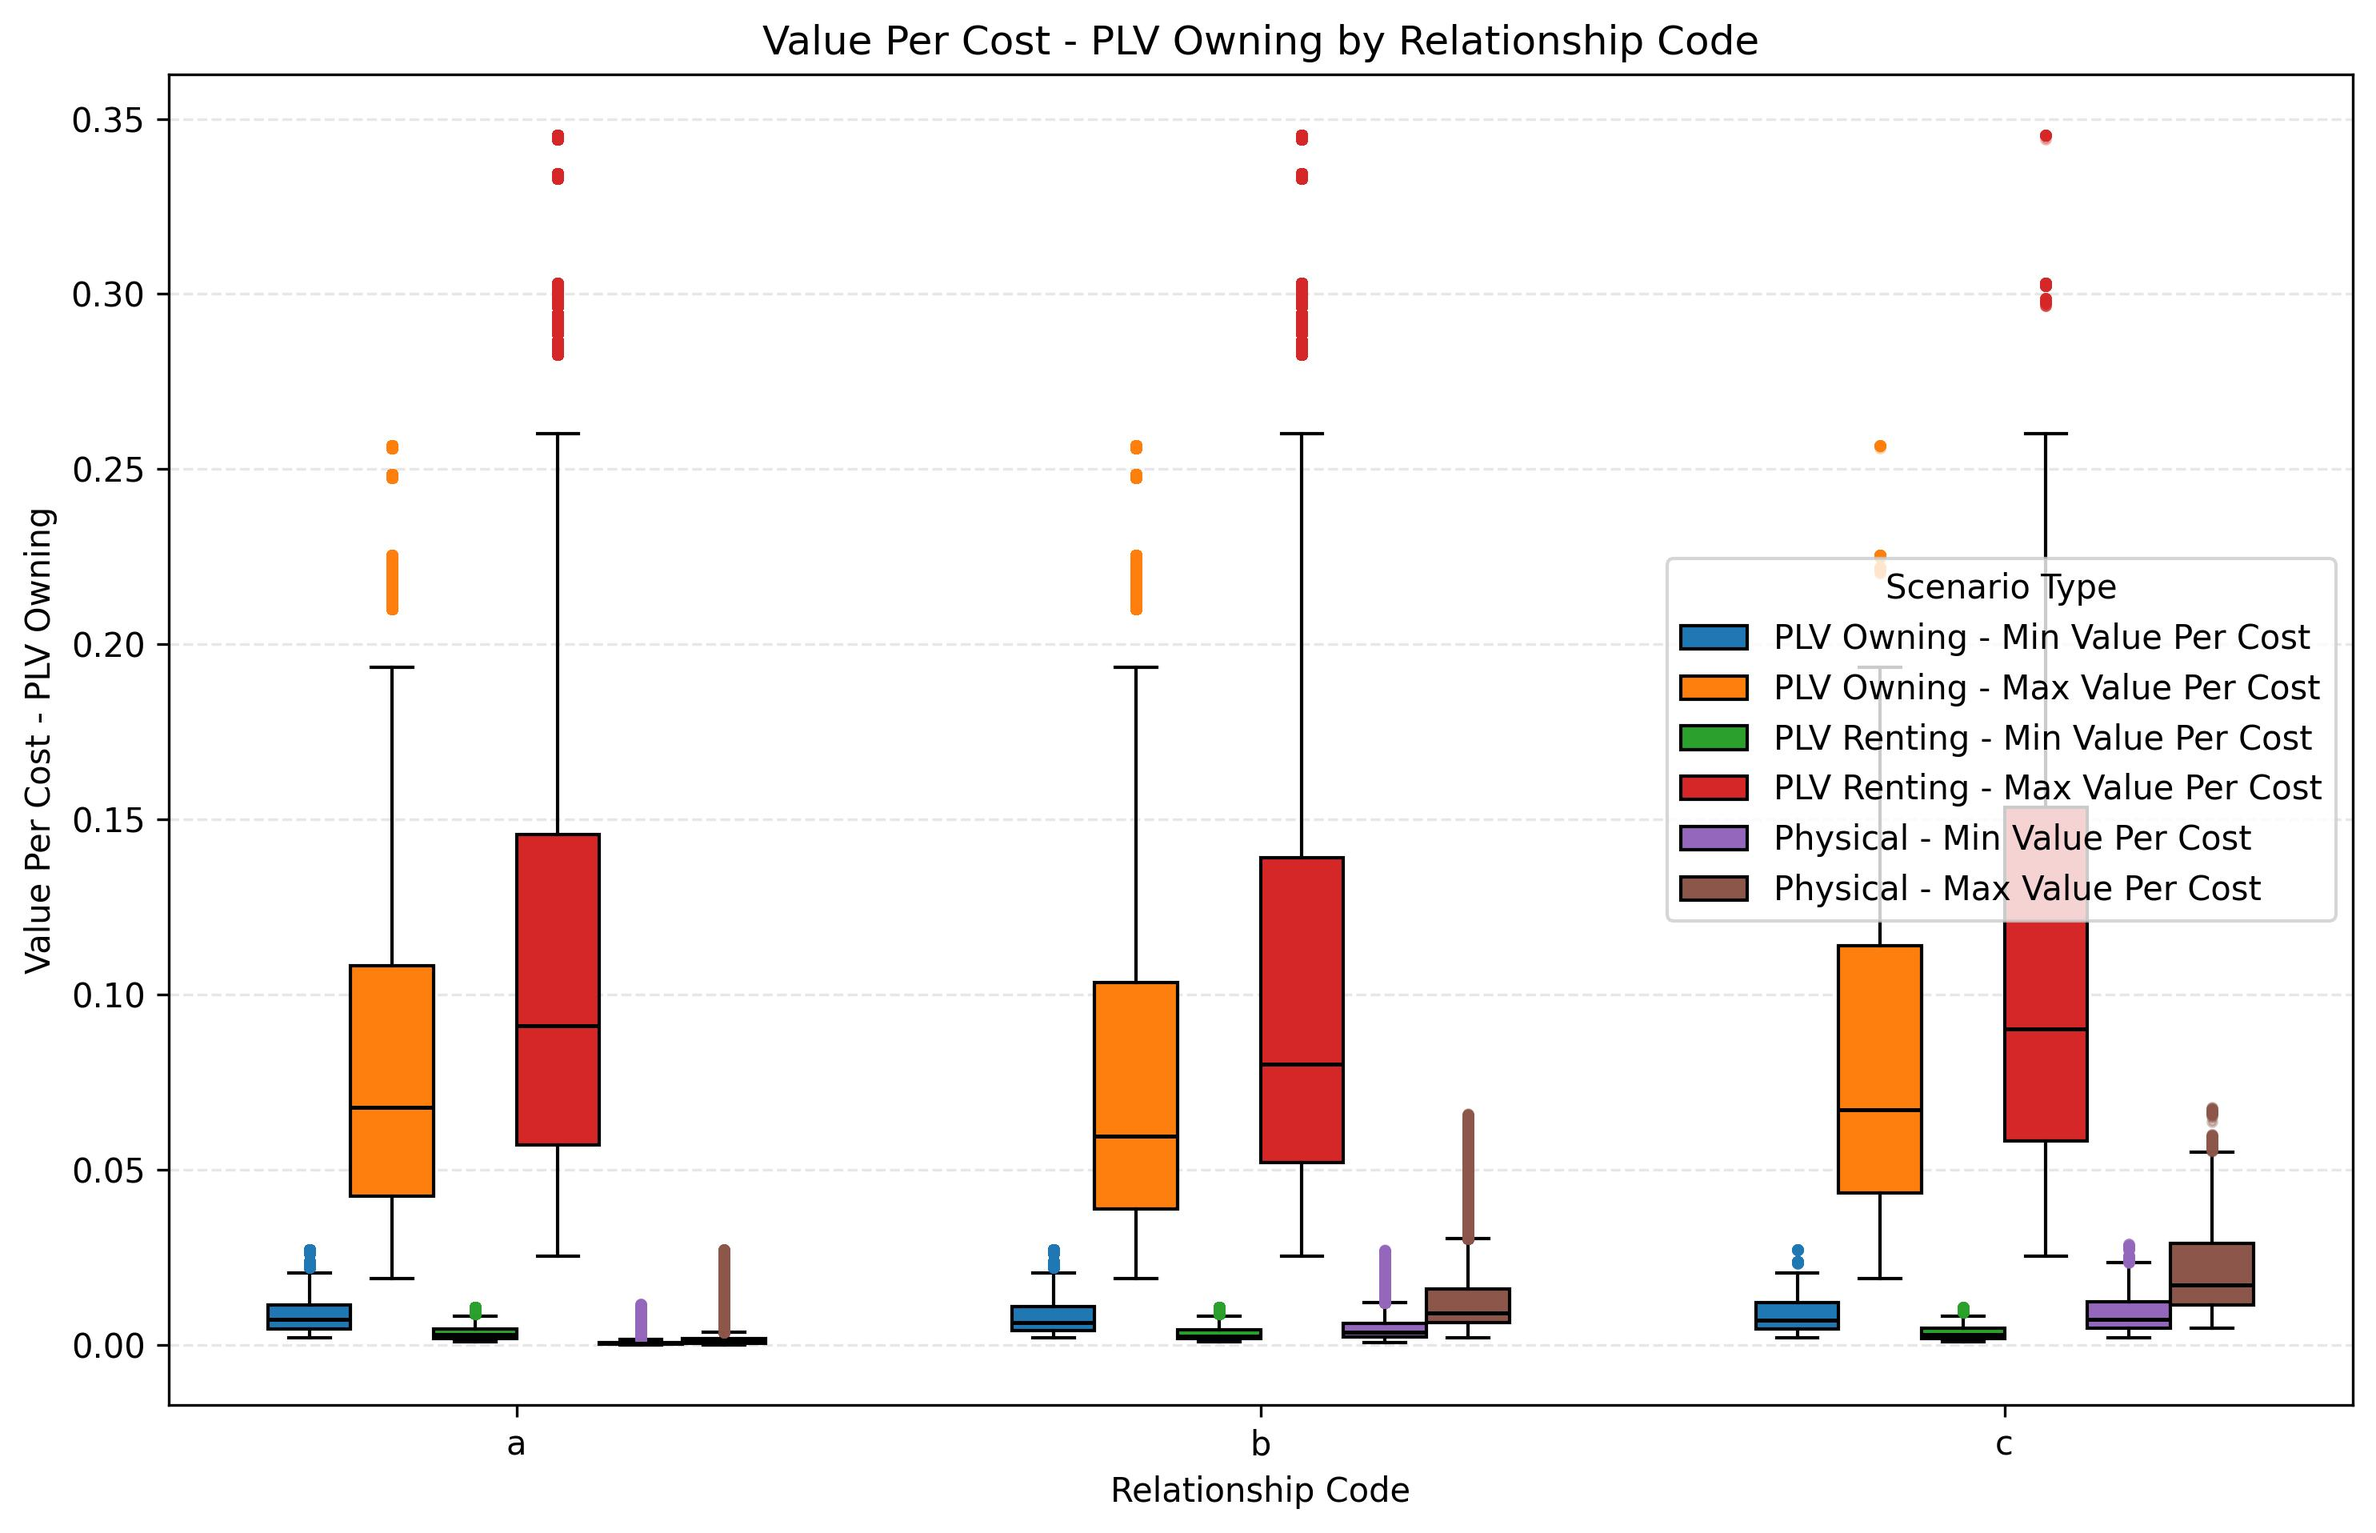
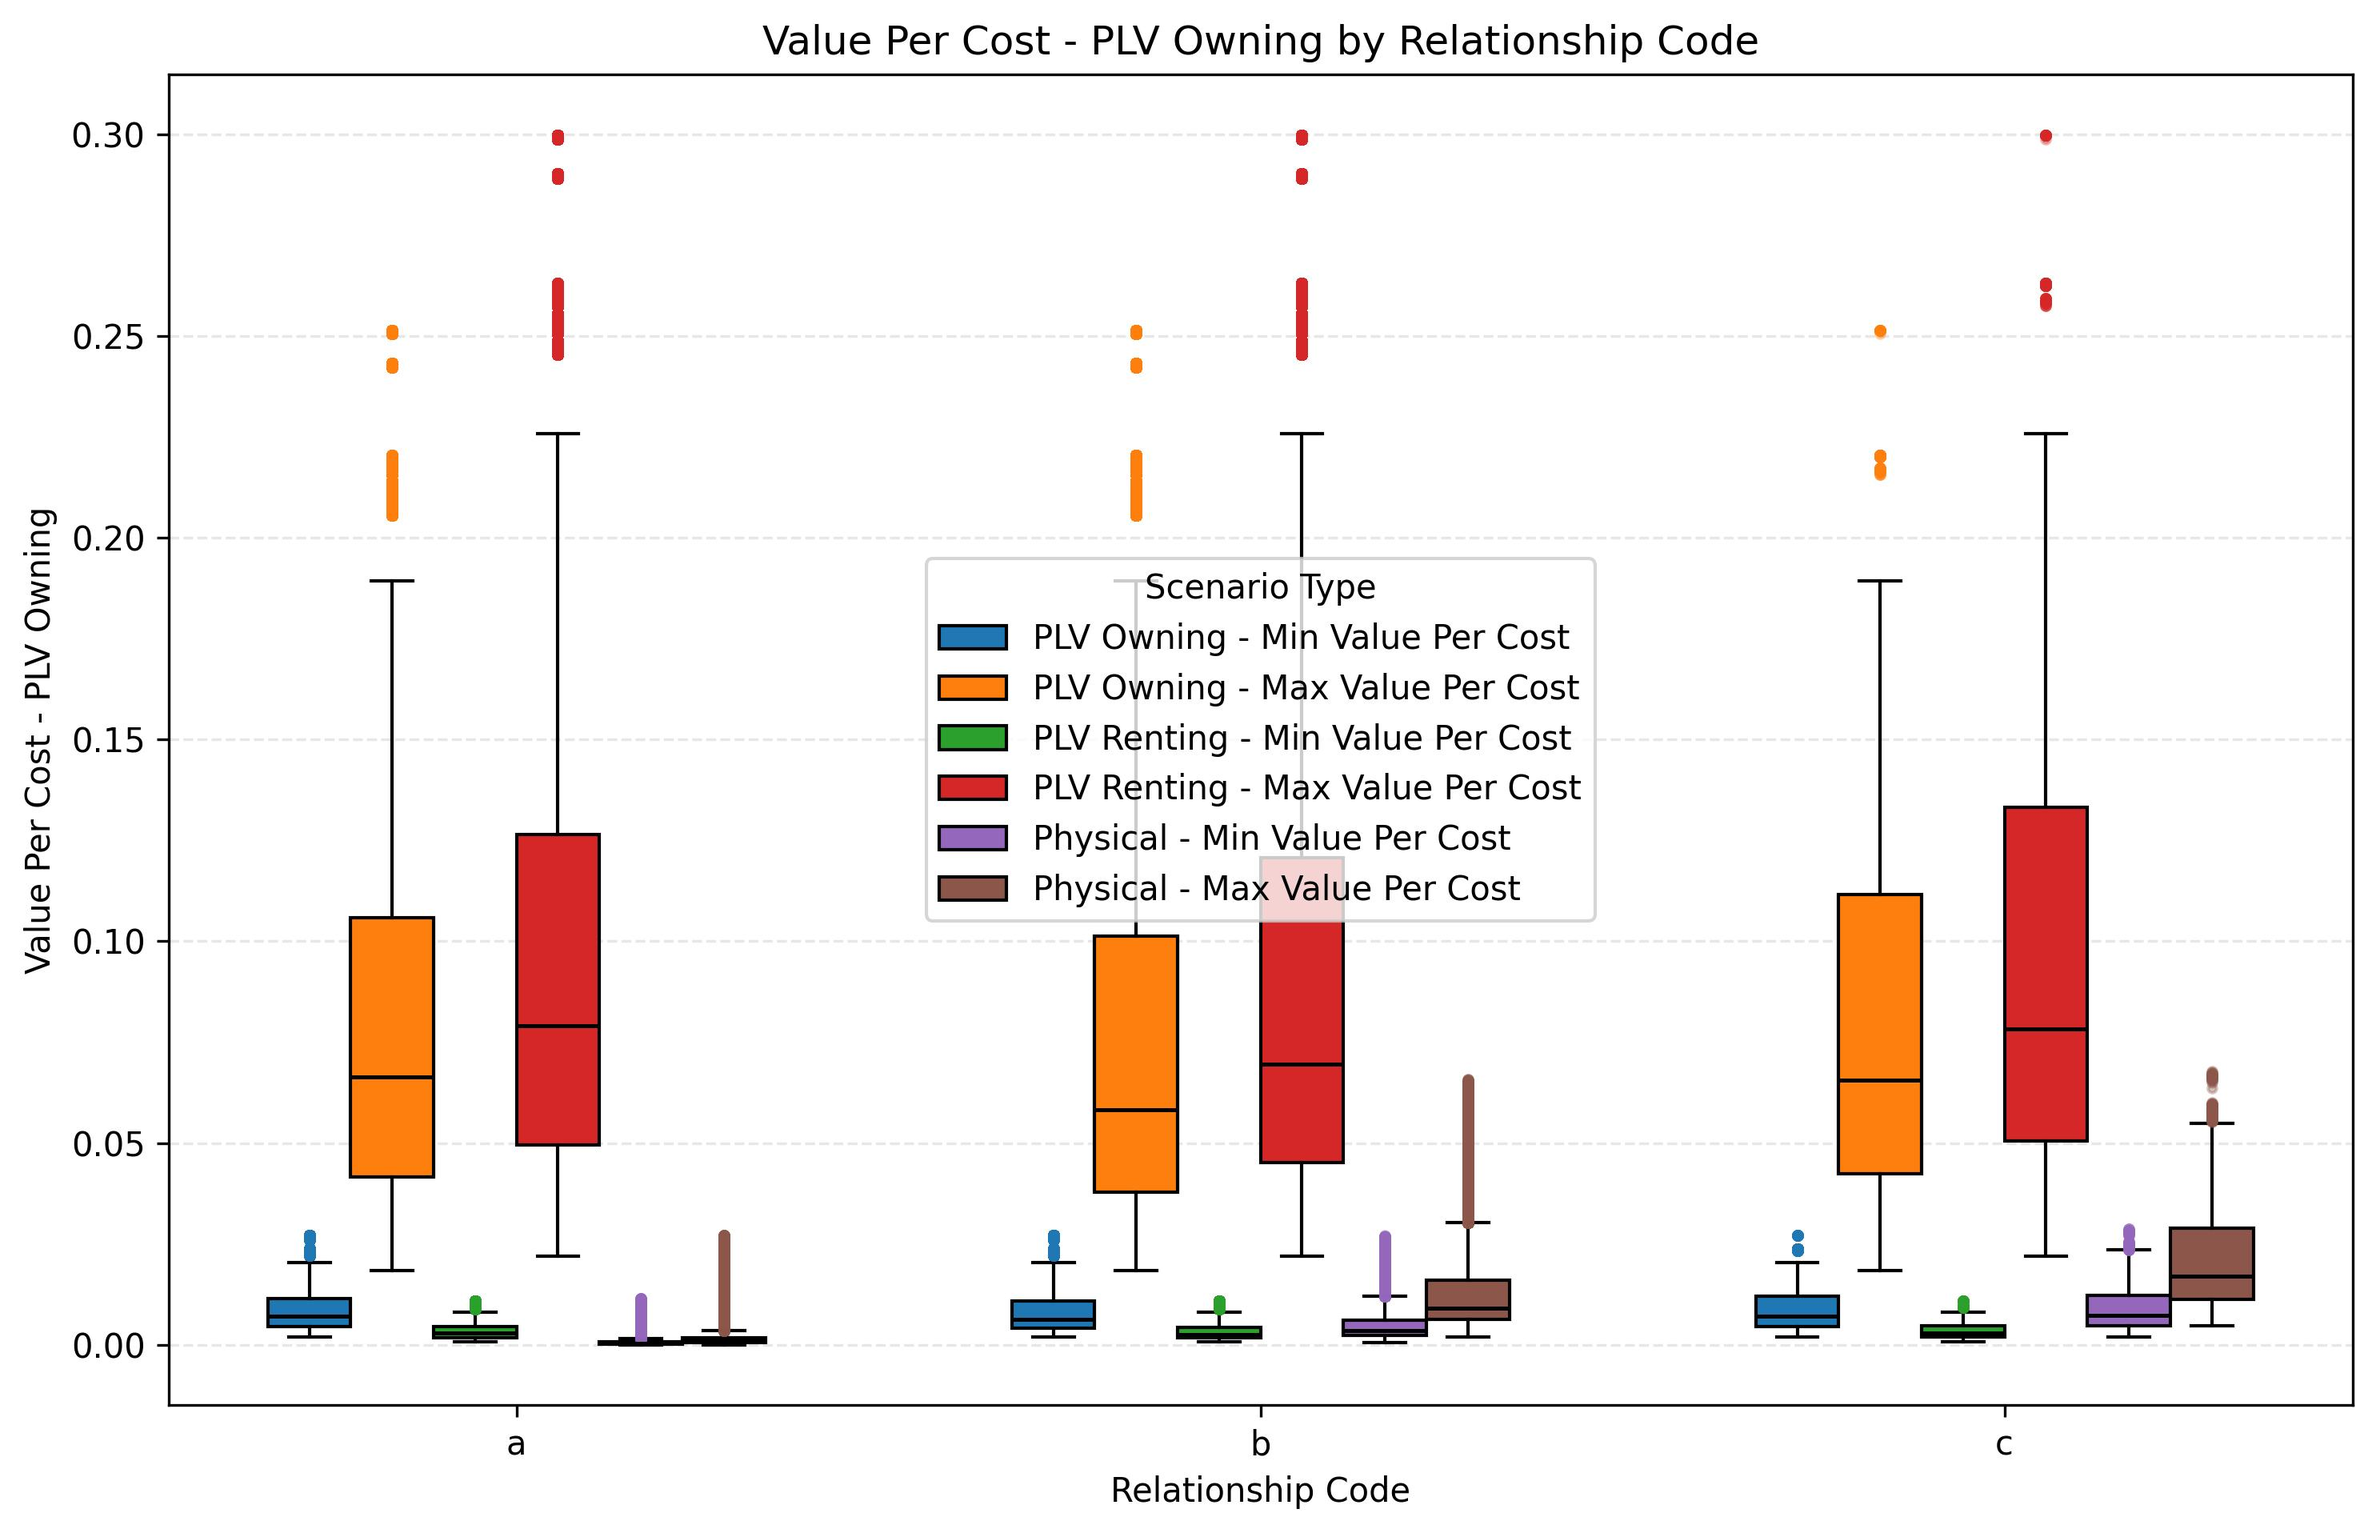
Update lower-bound PLV costs

diff --git a/inspection_costs.py b/inspection_costs.py
@@ -17,8 +17,8 @@ NUMBER_OF_PHYSICAL_INSPECTIONS_PER_CLUSTER_PER_YEAR = 2
 
 PHYSICAL_INSPECTION_SALARY_COST_PER_TESTED_CHIP = (9, 48.8)
 PHYSICAL_INSPECTION_FIXED_COST_PER_INSPECTION = (2_590, 6_050)
-PLV_RENTING_COST_PER_TOTAL_CHIP = (2_251_688 / TARGET_CHIPS, 72_427_200 / TARGET_CHIPS)  # 12 - 500 landmark servers
-PLV_OWNING_COST_PER_TOTAL_CHIP = (3_028_862 / TARGET_CHIPS, 28_715_814 / TARGET_CHIPS)  # 12 - 500 landmark servers
+PLV_RENTING_COST_PER_TOTAL_CHIP = (2_592_987 / TARGET_CHIPS, 72_427_200 / TARGET_CHIPS)  # 12 - 500 landmark servers
+PLV_OWNING_COST_PER_TOTAL_CHIP = (3_093_801 / TARGET_CHIPS, 28_715_814 / TARGET_CHIPS)  # 12 - 500 landmark servers
 
 MIN_DIVERTED_CHIPS = 100  # Minimum allowed diverted-chip count (K) for positive-K components of each scenario.
 MIN_SCENARIO_DIVERTED_CHIPS = 114_000  # Minimum number of total diverted chips across a full scenario.
